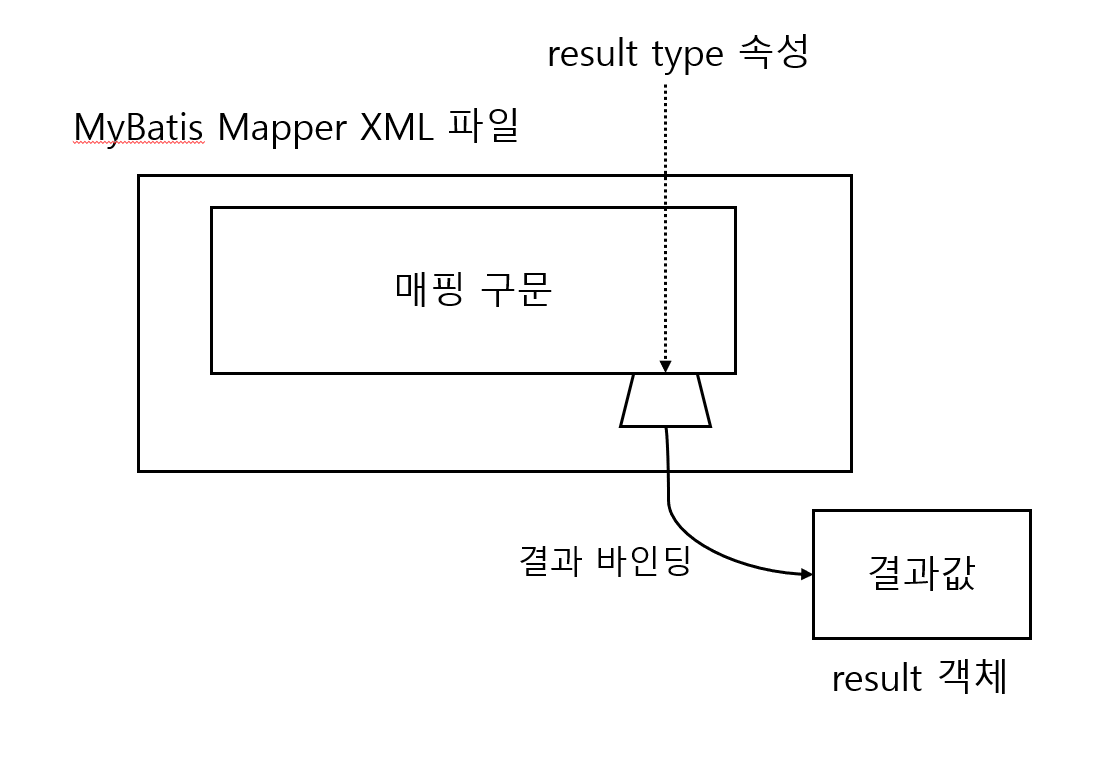
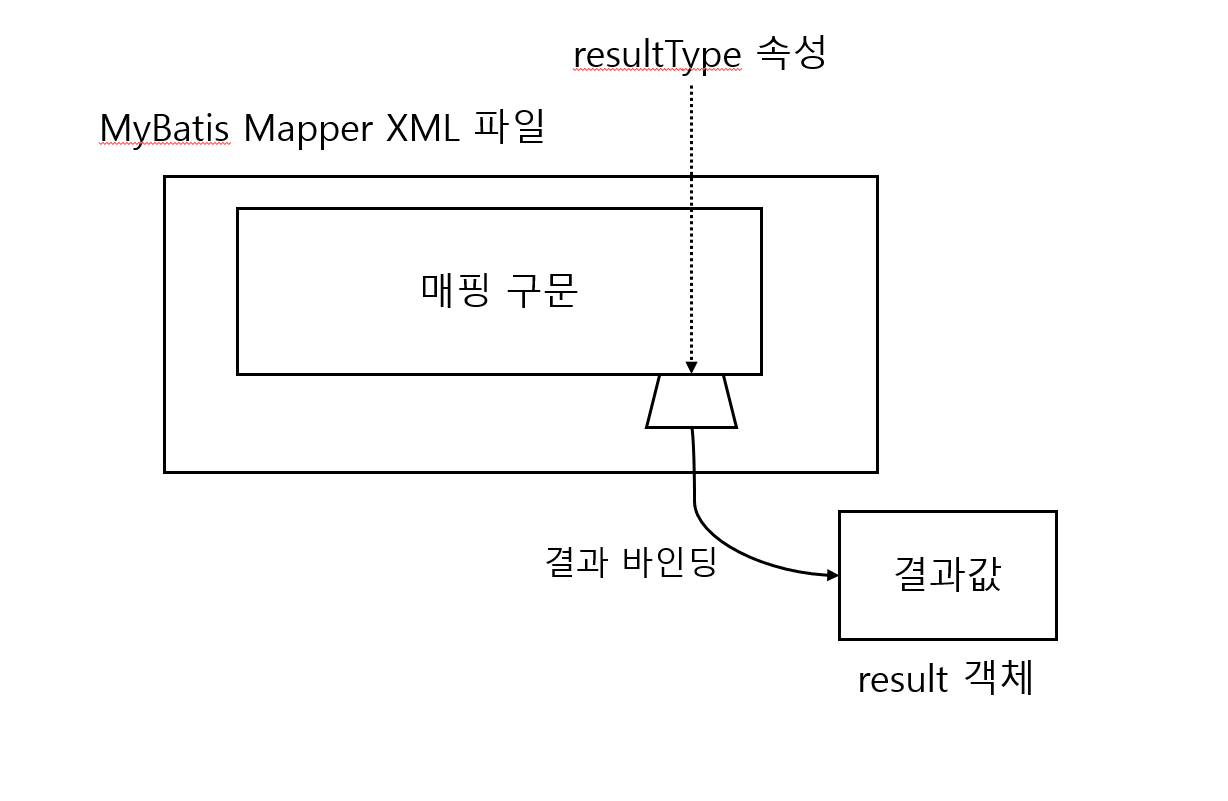
매핑 구문에 resultType 속성을 지정했을 때 모습 수정

diff --git a/brucehan/mybais-underscore/20240804-MybatisUnderscore.md b/brucehan/mybais-underscore/20240804-MybatisUnderscore.md
@@ -181,22 +181,25 @@ $.ajax({
 
 이 설정을 활용하여 프론트(JSP) 단에 있던 **for문을 다시 제거**한 뒤 **VO에는 `_total`이 붙은 필드 이름을 카멜케이스로 바꿔** 마무리했다.
 
-기존 4천 줄이던 쿼리문을 30%를 줄여 2천 8백 줄로 한결 깔끔하게 보도록 수정을 완료했고, 번거로운 노가다 작업도 한 줌 덜게 되었다.
+기존 4천 라인이던 코드를 2천 8백 라인으로 수정을 완료했고, 번거로운 작업도 한 줌 덜게 되었다.
 
 ---
 
 ## MyBatis의 매핑 원리와 세팅 옵션 이해하기
 
-
 ### MyBatis 매핑 원리
 
-#### 매핑 구문에 리절트 타입 속성을 지정하면?
+#### 매핑 구문에 resultType 속성을 지정했을 때의 모습
 
-![매핑 구문에 리절트 타입 속성을 지정하면 이렇게 됩니다](mappingPrinciple.png)
+![매핑 구문에 리절트 타입 속성을 지정하면 이렇게 된다](mappingPrinciple.png)
 
-#### 반환된 조회 결과는 Reuslt 객체에 어떻게 바인딩 될까?
+`매핑 구문`을 실행한 다음 `resultType 속성`으로 반환된 **결과를 바인딩** 해준다.   
+result 전달에 사용한 객체를 `result 객체`라고 이해하면 된다.
 
-1. ResultSet Handler가 resultType 속성 값에 지정한 result Type의 객체를 생성한 다음, ResultSet에 담긴 조회 결과를 바인딩합니다.
+
+#### 반환된 조회 결과는 result 객체에 어떻게 바인딩 될까?
+
+1. ResultSet Handler가 resultType 속성 값에 지정한 resultType의 객체를 생성한 다음, ResultSet에 담긴 조회 결과를 바인딩합니다.
    - 이 과정에서 **오브젝트 팩토리와 타입 핸들러, 프로퍼티** 등이 함께 사용됩니다.
    - org.apache.ibatis.executor.resultset.DefaultResultSetHandler 클래스를 살펴보면
      - 매핑 구문을 실행한 다음 반환된 ResultSet에 결과가 존재하면, 오브젝트 팩토리는 resultType 속성 값에 지정한 Result 객체를 생성한 다음 초기화합니다.
